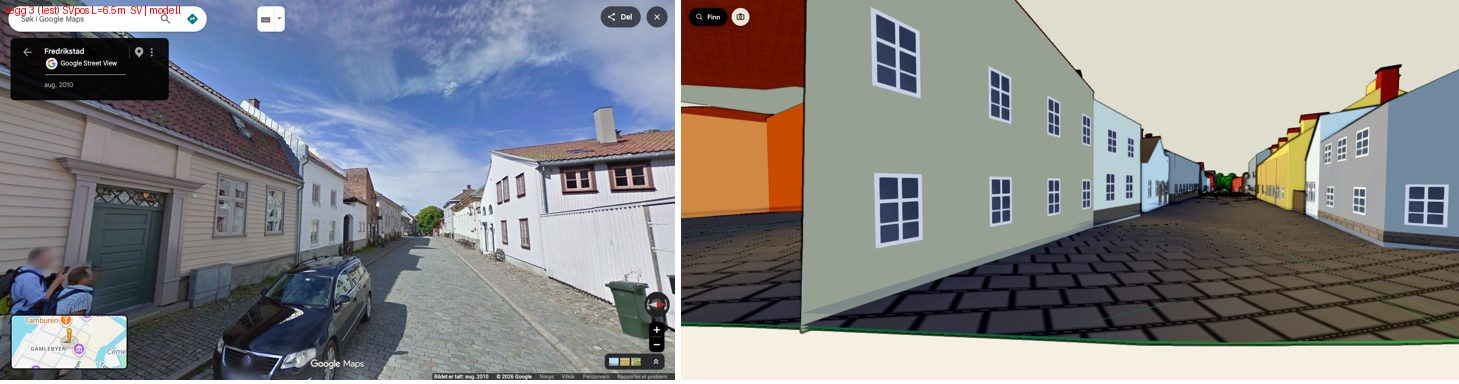
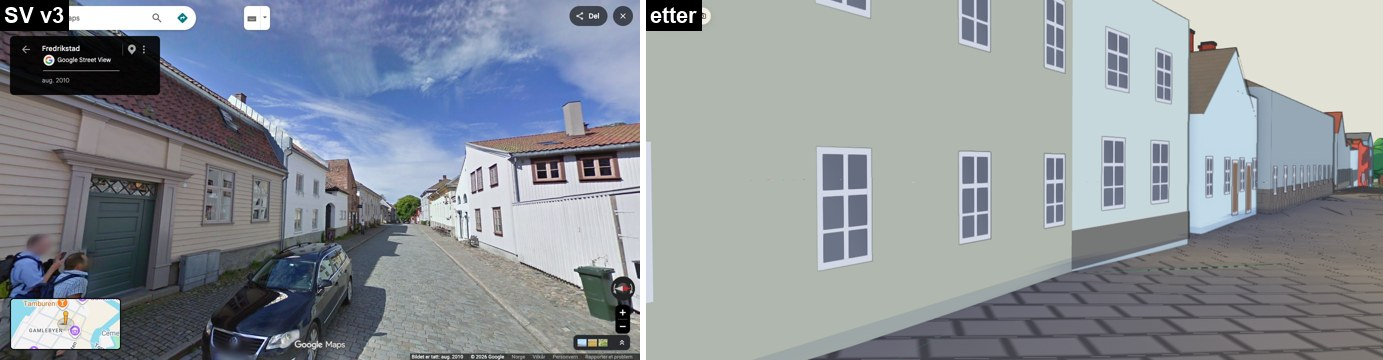
runde 2: 4 fargehus tegnet (rund1s fargeavvik var skygge/autocontrast/mål-ID)
- montasje.py: autocontrast nå opt-in (--strekk); strekk forvrengte bleke kulører (lys blågrå ble mettet blå)
- 6276512, 194006187, 6276504, 193971288: veggfarge sourced (SV 2024), mål-ID bekreftet via skjermpunkt; rund1 forvekslet nabo/skygge. Satt tegnet runde 2
- bevis regenerert uten strekk (ærlige kulører)

diff --git a/verktoy/rett/montasje.py b/verktoy/rett/montasje.py
@@ -22,6 +22,7 @@ etter_dir = arg('--etter', os.path.join(ROT, 'rapport', 'ferdig', 'renders_r2'))
 for_dir = arg('--for')
 ut_dir = arg('--ut', os.path.join(ROT, 'rapport', 'ferdig'))
 flagg = {'--etter', '--for', '--ut'}
+STREKK = '--strekk' in sys.argv   # autocontrast på modell-rendrene: bare når fasaden er utbrent. Av som standard (strekk forvrenger bleke kulører: lys blågrå ble mettet blå).
 ids = [a for a in sys.argv[1:] if not a.startswith('--') and sys.argv[sys.argv.index(a) - 1] not in flagg]
 
 RADH = 360   # høyde per bilde i montasjen
@@ -58,9 +59,9 @@ for hid in mål:
         if os.path.exists(svp): kol.append(merk(last(svp), f"SV v{e['wall']}"))
         if for_dir:
             fp = os.path.join(for_dir if os.path.isabs(for_dir) else os.path.join(ROT, for_dir), e['navn'] + '.png')
-            if os.path.exists(fp): kol.append(merk(last(fp, True), 'for'))
+            if os.path.exists(fp): kol.append(merk(last(fp, STREKK), 'for'))
         ep = os.path.join(etter_dir if os.path.isabs(etter_dir) else os.path.join(ROT, etter_dir), e['navn'] + '.png')
-        if os.path.exists(ep): kol.append(merk(last(ep, True), 'etter'))
+        if os.path.exists(ep): kol.append(merk(last(ep, STREKK), 'etter'))
         if not kol: continue
         bredde = sum(k.width for k in kol) + 6 * (len(kol) - 1)
         rad = Image.new('RGB', (bredde, RADH), (255, 255, 255))
